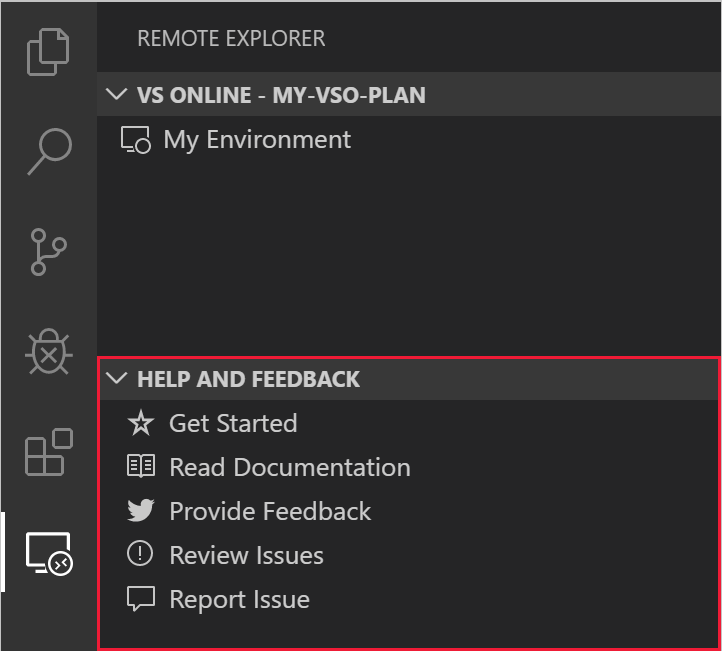
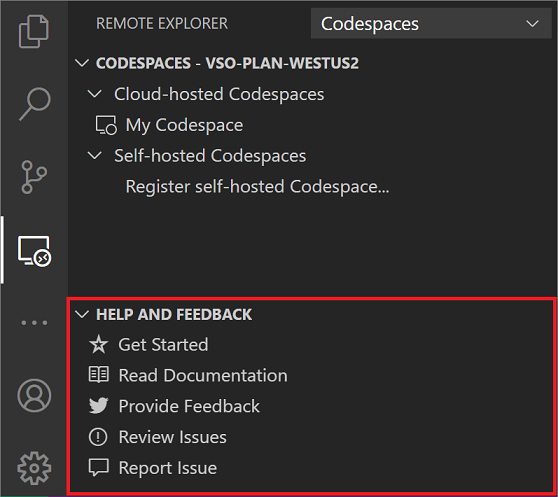
Update a few more images

diff --git a/vscodespaces/reference/personalizing.md b/vscodespaces/reference/personalizing.md
@@ -21,13 +21,13 @@ Developers often store dotfiles in a GitHub repository so they can easily synchr
 ## Configure a dotfile repo in Visual Studio Code
 
 To configure a dotfiles repo in Visual Studio Code:
-Press `F1` and select the **Preferences: Open Setting (UI)** command in the [command palette](https://code.visualstudio.com/docs/getstarted/userinterface#_command-palette). In the **Settings** tab that opens, select the **Extensions** node in the navigation tree, followed by **Visual Studio Codespaces**. 
+Press **F1** and select the **Preferences: Open Setting (UI)** command in the [Command Palette](https://code.visualstudio.com/docs/getstarted/userinterface#_command-palette). In the **Settings** tab that opens, select the **Extensions** node in the navigation tree, followed by **Visual Studio Codespaces**. 
 
 ![Visual Studio Codespaces Settings in Visual Studio Code](../images/personalizing-dotfiles-vsc.png)
 
 ## Configure a dotfile repo in the portal
 
-You can also configure dotfiles using the [Visual Studio Codespaces portal](https://online.visualstudio.com). Press the **Create environment** button and expand the **Dotfiles (optional)** settings.
+You can also configure dotfiles using the [Visual Studio Codespaces portal](https://online.visualstudio.com). Press the **Create Codespace** button and expand the **Dotfiles (optional)** settings.
 
 [![Visual Studio Codespaces Dotfiles Settings](../images/personalizing-dotfiles-vso-cropped.png)](../images/personalizing-dotfiles-vso.png#lightbox "Visual Studio Codespaces dotfiles settings")
 
@@ -71,7 +71,7 @@ Once the **Dotfiles Repository** is configured in VS Code, any environments crea
 
 [Settings Sync](https://code.visualstudio.com/docs/editor/settings-sync) allows you to sync a variety of settings, such as theme, keyboard shortcuts, extensions, and more across your various Visual Studio Code instances to give you tooling consistency whether you're working from a local Visual Studio Code instance or the browser-based editor.
 
-To use settings sync, ensure you're connecting to your environment from within Visual Studio Code Insiders or enable Insiders for the browser based editor:
+To use settings sync, ensure you're connecting to your codespace from within Visual Studio Code Insiders or enable Insiders for the browser based editor:
 
 - Navigate to the **Settings** pane from the user account card.
 
@@ -81,7 +81,7 @@ To use settings sync, ensure you're connecting to your environment from within V
 
   ![Turn on Insiders](../images/settings-pane.png)
 
-Once you're connected to the environment:
+Once you're connected to the codespace:
 
 - Click the **Manage** gear menu at the bottom of the **Activity Bar**.
 - Enable the **Turn On Preferences Sync..** option.

diff --git a/vscodespaces/resources/feedback.md b/vscodespaces/resources/feedback.md
@@ -16,10 +16,14 @@ Feedback for Visual Studio Codespaces is collected in [our documentation reposit
 - **Twitter**: Interact with us on Twitter! Just be sure to use the [#vsonline](https://twitter.com/search?q=%23vsonline&src=typed_query&f=live) hashtag.
 - **Billing**: For support with billing inquiries, see the [Azure Help + support blade](https://portal.azure.com/#blade/Microsoft_Azure_Support/HelpAndSupportBlade).
 
+## In Visual Studio 2019
+
 Issues in Visual Studio 2019 using Codespaces are collected on [Visual Studio's Developer Community site.](https://developercommunity.visualstudio.com/) Use the feedback button in Visual Studio to include logs and other helpful diagnostics information. 
 
 ![Visual Studio 2019 Help & Feedback](../images/vs2019-feedback.png)
 
-Additionally, look for the **Help and Feedback** panel in the **Remote Explorer** for a quick and easy way to interact with our feedback channels.
+## In Visual Studio Code
 
-![Visual Studio Codespaces Help & Feedback](../images/feedback.png)
+Look for the **Help and Feedback** panel in the **Remote Explorer** for a quick and easy way to interact with our feedback channels.
+
+![Help & Feedback in the Visual Studio Code Remote Explorer](../images/feedback.png)

diff --git a/vscodespaces/quickstarts/vs.md b/vscodespaces/quickstarts/vs.md
@@ -21,7 +21,7 @@ This document will walk you through how to install Codespaces, create a cloud-ho
 ## 1. Install
 
 > [!TIP]
-> If you don't have [Visual Studio 2019 Preview](https://aka.ms/vspreview) installed already, you can download it [here](https://aka.ms/vspreview).
+> If you don't have [Visual Studio 2019 Preview](https://aka.ms/vspreview) installed already, you can download it from the [Visual Studio Preview](https://aka.ms/vspreview) page.
 
 Check the **ASP.NET and web development**, **Desktop development with C++**, or both Workloads in the Installer. Then click **Install**.
 
@@ -87,6 +87,6 @@ To delete the newly created Codespace, open the **File** menu and click **Connec
 
 This article covered a typical end-to-end use of Codespaces. For more information, see:
 
-- [What is Codespaces?](../overview/what-is-vsonline.md)
+- [What is Visual Studio Codespaces?](../overview/what-is-vsonline.md)
 - [Codespaces with VS Code quickstart](../quickstarts/vscode.md)
 - [Codespaces with the browser quickstart](../quickstarts/browser.md)

diff --git a/vscodespaces/how-to/vscode.md b/vscodespaces/how-to/vscode.md
@@ -47,7 +47,7 @@ In addition to the panel, VS Code will also show the remote indicator in the Sta
 
 ## Sign in to Visual Studio Codespaces
 
-To sign in to Codespaces, you can either press `F1` and select the **Codespaces: Sign In** command in the [Command Palette](https://code.visualstudio.com/docs/getstarted/userinterface#_command-palette), or click **Sign in to view Codespaces...** in **Codespaces** panel of the **Remote Explorer** side bar.
+To sign in to Visual Studio Codespaces, you can either press **F1** and select the **Codespaces: Sign In** command in the [Command Palette](https://code.visualstudio.com/docs/getstarted/userinterface#_command-palette), or click **Sign in to view Codespaces...** in **Codespaces** panel of the **Remote Explorer** side bar.
 
 ![Sign In to Visual Studio Codespaces](../images/sign-in-vsc-01.png)
 

diff --git a/vscodespaces/how-to/self-hosting-vscode.md b/vscodespaces/how-to/self-hosting-vscode.md
@@ -33,7 +33,7 @@ In addition to the panel, Visual Studio Code will also show the remote indicator
 
 ## Sign In
 
-To sign into Codespaces, you can either press `F1` and select the **Codespaces: Sign In** command in the [Command Palette](https://code.visualstudio.com/docs/getstarted/userinterface#_command-palette), or select **Sign in to view Codespaces...** in **Codespaces** panel of the **Remote Explorer** side bar.
+To sign into Visual Studio Codespaces, you can either press **F1** and select the **Codespaces: Sign In** command in the [Command Palette](https://code.visualstudio.com/docs/getstarted/userinterface#_command-palette), or select **Sign in to view Codespaces...** in **Codespaces** panel of the **Remote Explorer** side bar.
 
 ![Sign In to Visual Studio Codespaces](../images/sign-in-vsc-01.png)
 

diff --git a/vscodespaces/quickstarts/vscode.md b/vscodespaces/quickstarts/vscode.md
@@ -38,7 +38,7 @@ To create a new cloud-hosted codespace in Codespaces, select **Create new Codesp
 > [!NOTE]
 > If you don't have the [Azure Account](https://marketplace.visualstudio.com/items?itemName=ms-vscode.azure-account) extension installed, you will be prompted to install it before proceeding. In the Extensions view, search for 'Azure Account' and select **Install**. You may need to restart VS Code after installing the Azure Account extension.
 
-![Create environment in Visual Studio Code](../images/create-env-vsc-01.png)
+![Create codespace in Visual Studio Code](../images/create-env-vsc-01.png)
 
 In the quick pick that appears, you can choose to either take the default settings, set custom setting values, or review pricing information. For this quickstart, take the **Default settings**.
 
